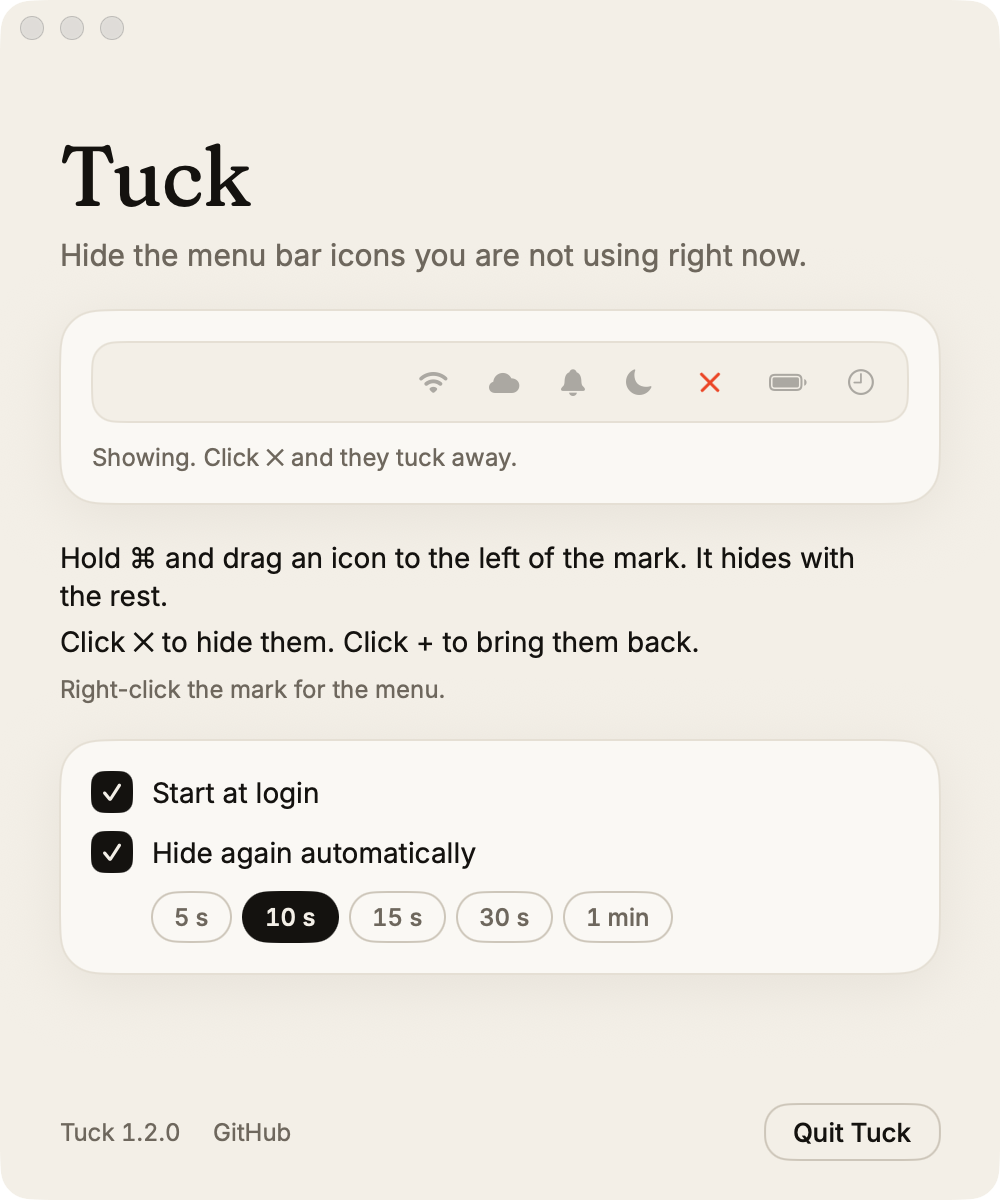
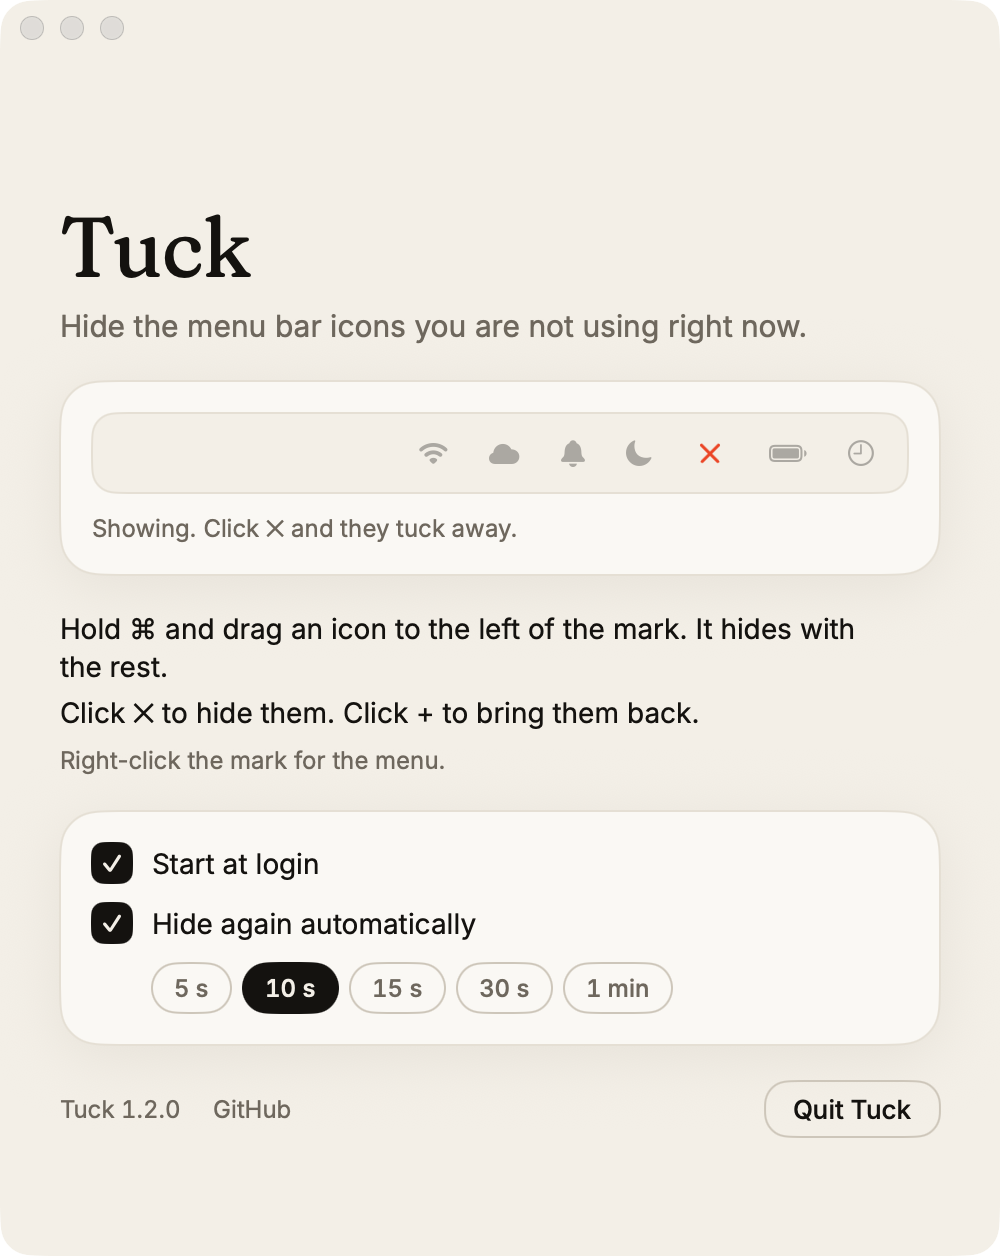
Window: one block, centred at any size
The content sits in the middle of the window, no wider than 620 points, with
room around it as the window grows. Minimum is 440×600 so the block always
fits.

diff --git a/src/ui/PreferencesWindowController.swift b/src/ui/PreferencesWindowController.swift
@@ -9,7 +9,7 @@ final class PreferencesWindowController: NSWindowController {
 
     private init() {
         let window = NSWindow(
-            contentRect: NSRect(x: 0, y: 0, width: 500, height: 600),
+            contentRect: NSRect(x: 0, y: 0, width: 500, height: 620),
             styleMask: [.titled, .closable, .miniaturizable, .resizable, .fullSizeContentView],
             backing: .buffered,
             defer: false)
@@ -21,10 +21,10 @@ final class PreferencesWindowController: NSWindowController {
         window.isMovableByWindowBackground = true
         window.isReleasedWhenClosed = false
         // Small enough for a laptop, never so small that a line has to break twice.
-        window.contentMinSize = NSSize(width: 440, height: 560)
+        window.contentMinSize = NSSize(width: 440, height: 600)
         window.contentViewController = NSHostingController(
             rootView: PreferencesView(preferences: .shared, login: LoginItemModel(), updates: .shared))
-        window.setContentSize(NSSize(width: 500, height: 600))
+        window.setContentSize(NSSize(width: 500, height: 620))
         window.setFrameAutosaveName("TuckPreferences")
         super.init(window: window)
     }

diff --git a/src/ui/PreferencesView.swift b/src/ui/PreferencesView.swift
@@ -79,8 +79,6 @@ struct PreferencesView: View {
                 .toggleStyle(Check())
             }
 
-            Spacer(minLength: 0)
-
             HStack(spacing: 16) {
                 Text("Tuck \(version)")
                     .monospacedDigit()
@@ -106,9 +104,11 @@ struct PreferencesView: View {
         .tint(Ink.text)
         .padding(.top, 34)
         .padding(.horizontal, 30)
-        .padding(.bottom, 20)
-        .frame(maxWidth: 760, alignment: .topLeading)
-        .frame(minWidth: 440, maxWidth: .infinity, minHeight: 560, maxHeight: .infinity, alignment: .topLeading)
+        .padding(.bottom, 24)
+        // One block, no wider than a comfortable line, sitting in the middle of whatever
+        // size the window is. Grow the window and the block just gets more room around it.
+        .frame(maxWidth: 620)
+        .frame(minWidth: 440, maxWidth: .infinity, minHeight: 600, maxHeight: .infinity, alignment: .center)
         .background(Ink.paper)
         .onAppear { login.refresh() }
     }
